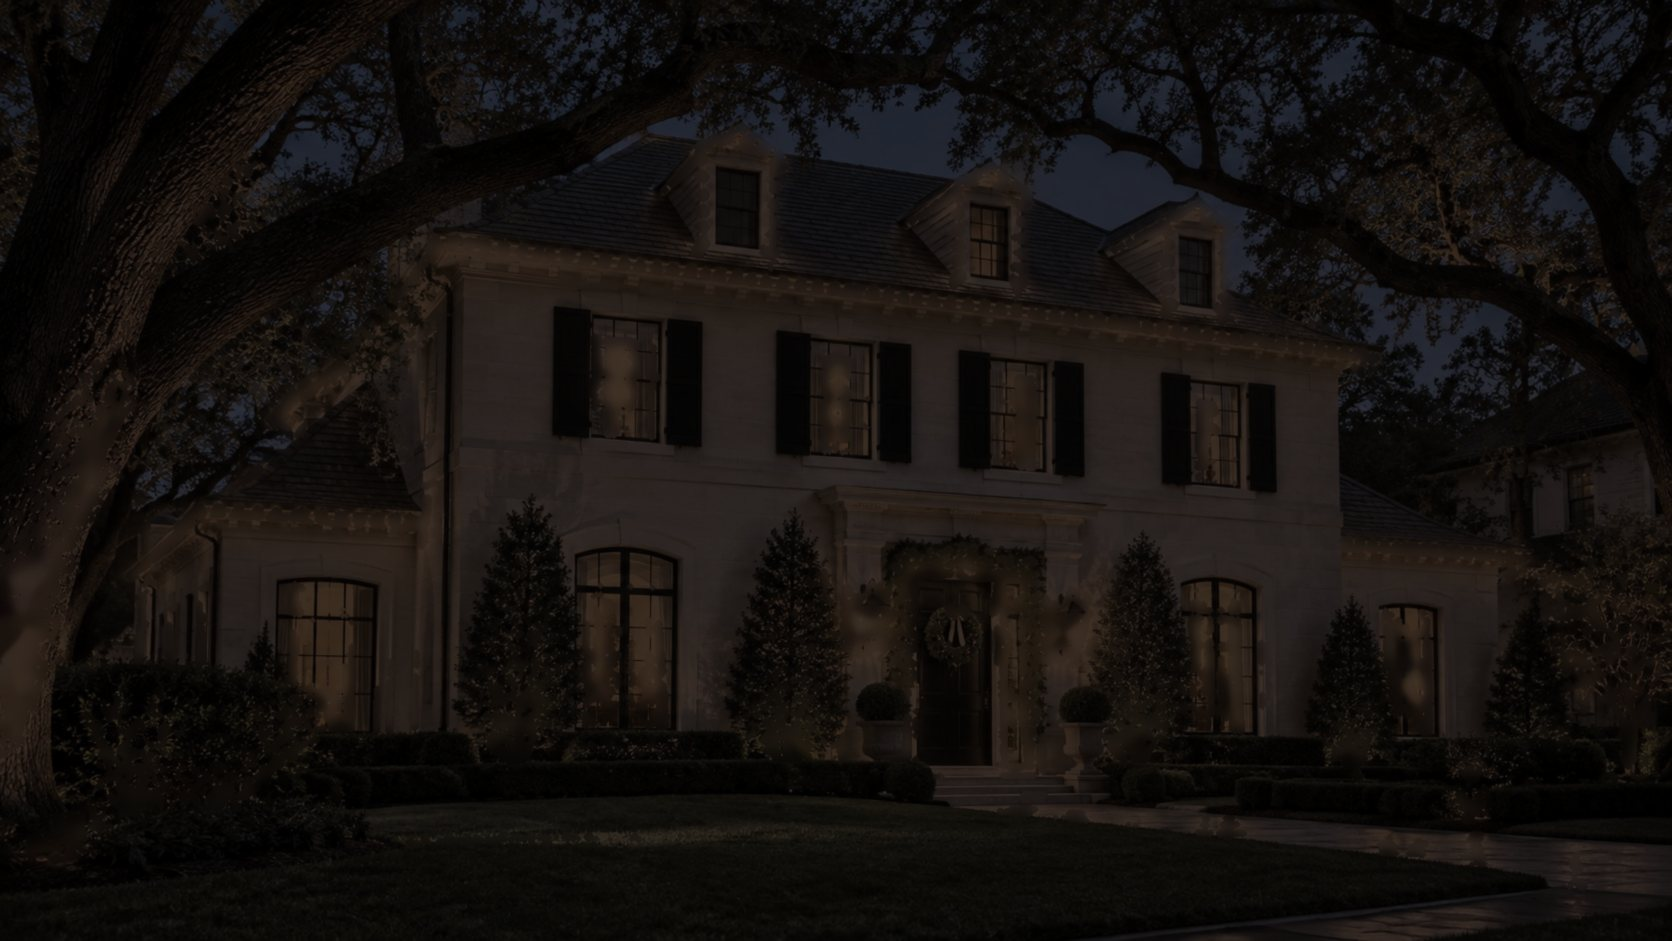
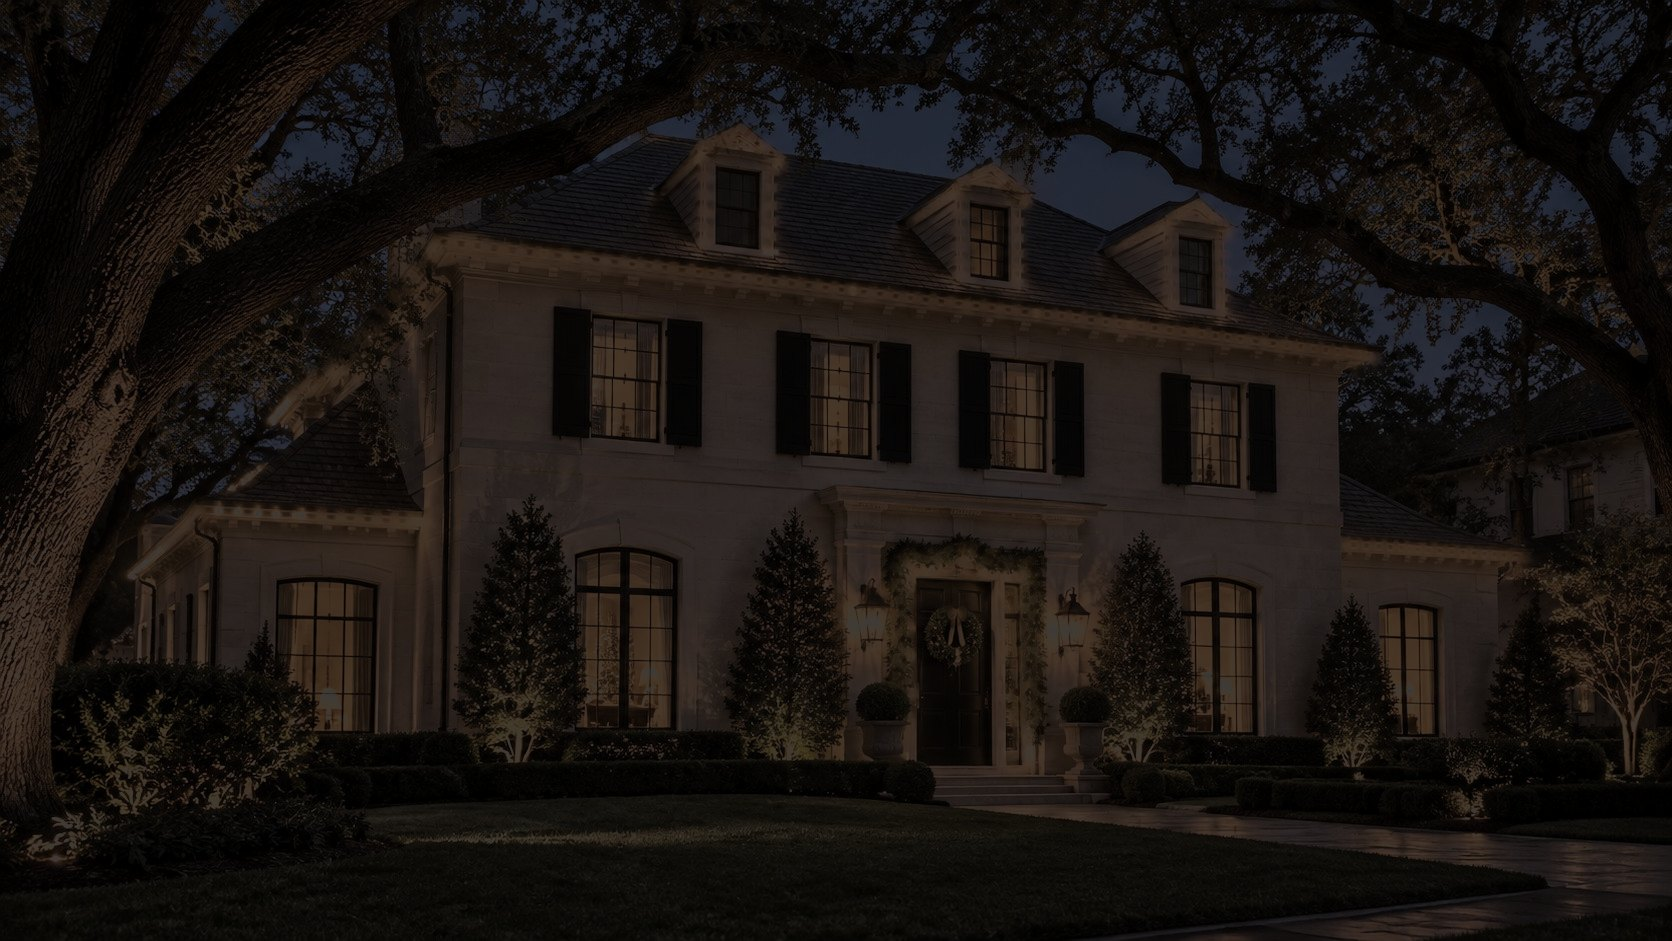
Light the house with the real bulbs instead of drawn dots
- As you scroll, the actual lit photo is revealed in a soft circle around
  each bulb, so the real bulbs and their glow switch on one by one
- The house warms slightly as more bulbs come on, then blends into the
  fully lit photo (windows and garden lights) with no visible jump
- Each bulb gives a brief warm spark as it switches on
- Rebuilt the lights-off photo by dimming only the known bulb positions,
  so windows, stonework and the door garland keep their texture

Claude-Session: https://claude.ai/code/session_01DVcnvSjdPh322HY9sHS5jN

diff --git a/script.js b/script.js
@@ -31,8 +31,45 @@ const toTop = $(".to-top");
 // ---------- Christmas lighting: the house lights up as you scroll ----------
 const lights = $("#lighting");
 const bulbs = [];
-let lit = 0;
+let lit = 0, drawn = -1, drawLit = () => {};
 if (lights) {
+  // The real lit photo is revealed in a soft circle around each bulb as it switches on,
+  // so visitors see the actual bulbs and their glow, not drawn dots.
+  const litImg = $(".lights-on", lights);
+  const canvas = $(".lights-lit", lights);
+  const ctx = canvas.getContext("2d");
+  const mask = document.createElement("canvas");
+  mask.width = canvas.width; mask.height = canvas.height;
+  const mctx = mask.getContext("2d");
+  const R = 24;
+  drawLit = (n) => {
+    if (!litImg.complete || !litImg.naturalWidth) return;
+    mctx.clearRect(0, 0, mask.width, mask.height);
+    for (let i = 0; i < n; i++) {
+      const x = BULBS[2 * i], y = BULBS[2 * i + 1];
+      const g = mctx.createRadialGradient(x, y, 0, x, y, R);
+      g.addColorStop(0, "rgba(0,0,0,1)");
+      g.addColorStop(0.4, "rgba(0,0,0,.85)");
+      g.addColorStop(1, "rgba(0,0,0,0)");
+      mctx.fillStyle = g;
+      mctx.fillRect(x - R, y - R, R * 2, R * 2);
+    }
+    ctx.globalCompositeOperation = "source-over";
+    ctx.globalAlpha = 1;
+    ctx.clearRect(0, 0, canvas.width, canvas.height);
+    ctx.drawImage(litImg, 0, 0, canvas.width, canvas.height);
+    ctx.globalCompositeOperation = "destination-in";
+    ctx.drawImage(mask, 0, 0);
+    // Light spill: the whole house warms a little as more bulbs come on.
+    ctx.globalCompositeOperation = "destination-over";
+    ctx.globalAlpha = 0.22 * (n / bulbs.length);
+    ctx.drawImage(litImg, 0, 0, canvas.width, canvas.height);
+    ctx.globalCompositeOperation = "source-over";
+    ctx.globalAlpha = 1;
+    drawn = n;
+  };
+  litImg.addEventListener("load", () => { drawn = -1; onScroll(); });
+
   const NS = "http://www.w3.org/2000/svg";
   const glow = $(".bulbs-glow", lights), core = $(".bulbs-core", lights);
   const dot = (x, y, r) => { const c = document.createElementNS(NS, "circle"); c.setAttribute("cx", x); c.setAttribute("cy", y); c.setAttribute("r", r); return c; };
@@ -49,6 +86,7 @@ function updateLights() {
   const n = Math.round(clamp((p - 0.06) / 0.64) * bulbs.length);
   for (let i = Math.min(n, lit); i < Math.max(n, lit); i++) bulbs[i].forEach((c) => c.classList.toggle("on", i < n));
   lit = n;
+  if (n !== drawn) drawLit(n);
   const on = clamp((p - 0.72) / 0.18);
   lights.style.setProperty("--on", on.toFixed(3));
   lights.style.setProperty("--bulbs", (1 - on * 0.85).toFixed(3));

diff --git a/styles.css b/styles.css
@@ -213,12 +213,15 @@ p { text-wrap: pretty; }
 /* Christmas lighting: the house lights up as you scroll through this section (script.js) */
 .lights { position: relative; height: 290vh; background: var(--black); }
 .lights-sticky { position: sticky; top: 0; height: 100vh; height: 100svh; overflow: hidden; }
-.lights-scene, .lights-scene img, .lights-bulbs, .lights-shade { position: absolute; inset: 0; width: 100%; height: 100%; }
-.lights-scene img { object-fit: cover; object-position: 50% 50%; }
+.lights-scene, .lights-scene img, .lights-scene canvas, .lights-bulbs, .lights-shade { position: absolute; inset: 0; width: 100%; height: 100%; }
+.lights-scene img, .lights-scene canvas { object-fit: cover; object-position: 50% 50%; }
 .lights-on { opacity: var(--on, 0); }
 .lights-bulbs { opacity: var(--bulbs, 1); }
-.lights-bulbs circle { opacity: 0; transition: opacity .3s ease-out; }
-.lights-bulbs circle.on { opacity: 1; }
+.lights-bulbs circle { opacity: 0; transition: opacity .4s ease-out; }
+.bulbs-glow circle.on { opacity: .45; }
+/* Each bulb gives a brief warm spark as it switches on; the real bulb from the photo stays lit underneath. */
+.bulbs-core circle.on { animation: spark .9s ease-out forwards; transform-box: fill-box; transform-origin: center; }
+@keyframes spark { 0% { opacity: 1; transform: scale(1.6); } 100% { opacity: 0; transform: scale(.6); } }
 .bulbs-glow circle { fill: #FFCF8A; }
 .bulbs-core circle { fill: #FFF7E8; }
 .lights-shade { background: linear-gradient(90deg, rgba(0, 0, 0, .86) 0%, rgba(0, 0, 0, .6) 32%, rgba(0, 0, 0, 0) 60%), linear-gradient(0deg, rgba(0, 0, 0, .55), transparent 28%); }
@@ -471,7 +474,7 @@ p { text-wrap: pretty; }
   .site-header:has(.nav-links.open) { background: var(--onyx); }
 
   .lights { height: 240vh; }
-  .lights-scene img { object-position: 46% 50%; }
+  .lights-scene img, .lights-scene canvas { object-position: 46% 50%; }
   .lights-shade { background: linear-gradient(0deg, rgba(0, 0, 0, .92) 0%, rgba(0, 0, 0, .75) 42%, rgba(0, 0, 0, 0) 72%); }
   .lights-copy { align-items: flex-end; padding-bottom: 112px; }
   .lights-meter { bottom: 92px; }

diff --git a/index.html b/index.html
@@ -111,6 +111,7 @@
       <div class="lights-sticky">
         <div class="lights-scene" aria-hidden="true">
           <img class="lights-off" src="images/house-off.jpg" alt="" width="1672" height="941" />
+          <canvas class="lights-lit" width="1672" height="941"></canvas>
           <img class="lights-on" src="images/hero-lights.jpg" alt="" width="1672" height="941" />
           <svg class="lights-bulbs" viewBox="0 0 1672 941" preserveAspectRatio="xMidYMid slice">
             <defs><filter id="bulb-glow" x="-50%" y="-50%" width="200%" height="200%"><feGaussianBlur stdDeviation="5" /></filter></defs>
